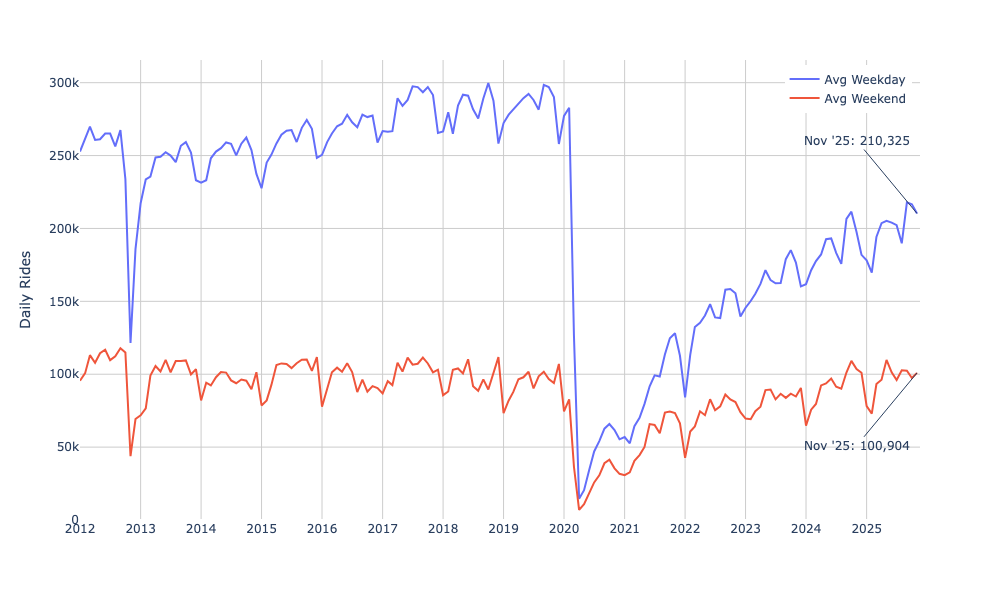
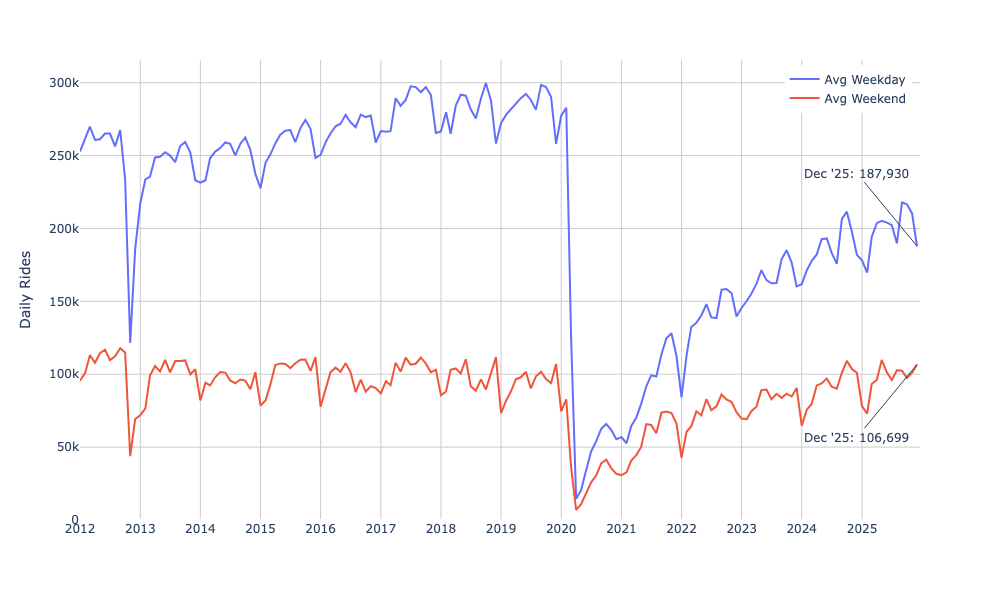
Regenerate combine outputs + charts with full 2025 data
Update `git_deps` blob SHAs, re-run combine pipeline (`months.ipynb`)
to incorporate all 12 months of 2025 data.

Fix combine `cmd` in `.dvc` files to include `cp img/*.json www/public/`
steps (was only copying `all.pqt`, missing chart JSONs).

🤖 Generated with [Claude Code](https://claude.com/claude-code)

diff --git a/scripts/add-dvc-computations.py b/scripts/add-dvc-computations.py
@@ -124,7 +124,14 @@ def main():
 
     git_dep = {"months.ipynb": shas["months.ipynb"]}
 
-    combine_cmd = "papermill months.ipynb months.ipynb && cp data/all.pqt www/public/all.pqt"
+    combine_cmd = (
+        "papermill months.ipynb months.ipynb"
+        " && cp data/all.pqt www/public/all.pqt"
+        " && cp img/weekdays.json www/public/weekdays.json"
+        " && cp img/weekends.json www/public/weekends.json"
+        " && cp img/avg_weekday_month_grouped.json www/public/avg_weekday_month_grouped.json"
+        " && cp img/avg_weekend_month_grouped.json www/public/avg_weekend_month_grouped.json"
+    )
 
     combine_outputs = [
         DATA / "all.pqt.dvc",
